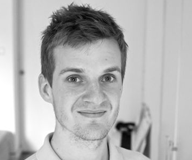
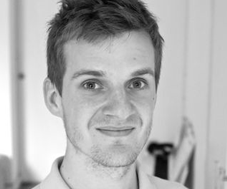
Added Phil, Resized some Images.

diff --git a/index.html b/index.html
@@ -123,19 +123,18 @@
 					</div>
 
 					<div class="comingsoon">
-
+						
+						<div class="speaker">
+							<img src="img/speakerimages/nash.png" alt="Phil Nash"/>
+							<p class="speakername">
+							<a href="http://www.twitter.com/philnash">Phil Nash</a>
+							</p>
+						</div>
+						
 						<div class="speaker">
 							<img src="img/speakerimages/tim.png" alt="Tim Ruffles"/>
 							<p class="speakername">
 							<a href="http://www.twitter.com/timruffles">Tim Ruffles</a>
-							</p>
-						</div>
-
-						<div class="speaker">
-							<img src="img/speakerimages/coming.png" alt="Coming Soon"/>
-							<p class="speakername">
-							&nbsp;
-							
 							</p>
 						</div>
 
